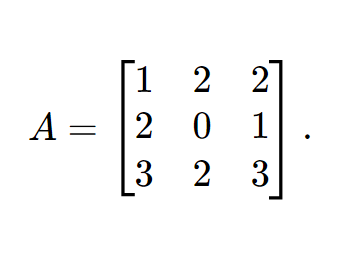
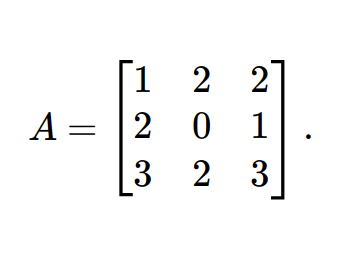
chore: render math images for README-practice

diff --git a/Day01/README-practice.md b/Day01/README-practice.md
@@ -63,10 +63,10 @@ Compute $AA^\top$.
 
 **Step 3 — fill entries.** Row $i$ of $A$ times column $j$ of $A^\top$ equals row $i$ of $A$ dot row $j$ of $A$:
 
-![display math](../assets/math/day01/readme-practice/eq-9dd3a5e04276cb28.png)
+![display math](../assets/math/day01/readme-practice/eq-eb8d9ccc461e8d8b.png)
 
 
-![display math](../assets/math/day01/readme-practice/eq-73c5e6c3e9eb13bc.png)
+![display math](../assets/math/day01/readme-practice/eq-c201522298512313.png)
 
 
 So
@@ -94,7 +94,7 @@ So
 
 Let
 
-![display math](../assets/math/day01/readme-practice/eq-325478df4393c38e.png)
+![display math](../assets/math/day01/readme-practice/eq-5cc15fd1876badda.png)
 
 
 Compute $AB$ and $BA$. Are they equal?
@@ -103,12 +103,12 @@ Compute $AB$ and $BA$. Are they equal?
 
 **Product $AB$** ($2 \times 2$):
 
-![display math](../assets/math/day01/readme-practice/eq-38312501de2ea8a5.png)
+![display math](../assets/math/day01/readme-practice/eq-86bc97a754c6bbd5.png)
 
 
 **Product $BA$** ($3 \times 3$):
 
-![display math](../assets/math/day01/readme-practice/eq-5de6a1bb2ccc9f05.png)
+![display math](../assets/math/day01/readme-practice/eq-3efc5986def57bcc.png)
 
 
 They are **not equal** (different shapes). This illustrates that matrix multiplication is **not** commutative in general.
@@ -133,7 +133,7 @@ They are **not equal** (different shapes). This illustrates that matrix multipli
 
 Let
 
-![display math](../assets/math/day01/readme-practice/eq-392e528f3c7aa779.png)
+![display math](../assets/math/day01/readme-practice/eq-f2c8a50059355b2b.png)
 
 
 Find $2A + B$.
@@ -173,7 +173,7 @@ Key identity (in display math so it does not break across lines on GitHub):
 
 Let
 
-![display math](../assets/math/day01/readme-practice/eq-bc22666016edceb1.png)
+![display math](../assets/math/day01/readme-practice/eq-01f69c1fee91f0f8.png)
 
 
 Compute $A(B+C)$ and $AB + AC$, and confirm they agree.
@@ -187,12 +187,12 @@ Compute $A(B+C)$ and $AB + AC$, and confirm they agree.
 
 **Left-hand side:**
 
-![display math](../assets/math/day01/readme-practice/eq-d09a0245a7c58a6d.png)
+![display math](../assets/math/day01/readme-practice/eq-d2292ed2d8e335e2.png)
 
 
 **Right-hand side:** First,
 
-![display math](../assets/math/day01/readme-practice/eq-704c596e6859c62f.png)
+![display math](../assets/math/day01/readme-practice/eq-f24fd138a719377f.png)
 
 
 so
@@ -225,7 +225,7 @@ Same matrix; distributivity checks out.
 
 Rotate each column vector by **$60^\circ$** counterclockwise:
 
-![display math](../assets/math/day01/readme-practice/eq-e030d0b6474a5511.png)
+![display math](../assets/math/day01/readme-practice/eq-bde72e2412847b8e.png)
 
 
 Use $\cos 60^\circ = \tfrac{1}{2}$ and $\sin 60^\circ = \tfrac{\sqrt{3}}{2}$.
@@ -239,12 +239,12 @@ Use $\cos 60^\circ = \tfrac{1}{2}$ and $\sin 60^\circ = \tfrac{\sqrt{3}}{2}$.
 
 **First vector:** multiply $R$ by $\mathbf{x}_1$ (first component of row 1 times $x_1$ plus second component times $x_2$):
 
-![display math](../assets/math/day01/readme-practice/eq-75a92378a4039e48.png)
+![display math](../assets/math/day01/readme-practice/eq-46be0b62b80f7c05.png)
 
 
 **Second vector:** same rule for $\mathbf{x}_2$:
 
-![display math](../assets/math/day01/readme-practice/eq-84acf58f2790ac89.png)
+![display math](../assets/math/day01/readme-practice/eq-e4e9b5e7b2ecc2ed.png)
 
 
 **Geometric check (optional):** sketch $\mathbf{x}_1$ in the first quadrant; after $60^\circ$ CCW, the vector should rotate toward the positive $y$-axis—your new coordinates should match that picture qualitatively.
@@ -285,14 +285,14 @@ Eigenvalues: $\lambda_1 = 1$, $\lambda_2 = 3$.
 
 **Step 2 — eigenvectors for $\lambda = 1$.** Solve $(A - I)\mathbf{v} = \mathbf{0}$:
 
-![display math](../assets/math/day01/readme-practice/eq-b4c99ff700b926e7.png)
+![display math](../assets/math/day01/readme-practice/eq-db1a29f21373fa7b.png)
 
 
 Pick $v_1 = 1$, then $v_2 = -1$. One eigenvector is $\mathbf{v} = \begin{bmatrix} 1 \cr -1 \end{bmatrix}$ (any nonzero scalar multiple).
 
 **Step 3 — eigenvectors for $\lambda = 3$.** Solve $(A - 3I)\mathbf{v} = \mathbf{0}$:
 
-![display math](../assets/math/day01/readme-practice/eq-9a2e9204e976c2fd.png)
+![display math](../assets/math/day01/readme-practice/eq-050749fdcfd8b546.png)
 
 
 One eigenvector is $\mathbf{v} = \begin{bmatrix} 1 \cr 1 \end{bmatrix}$.
